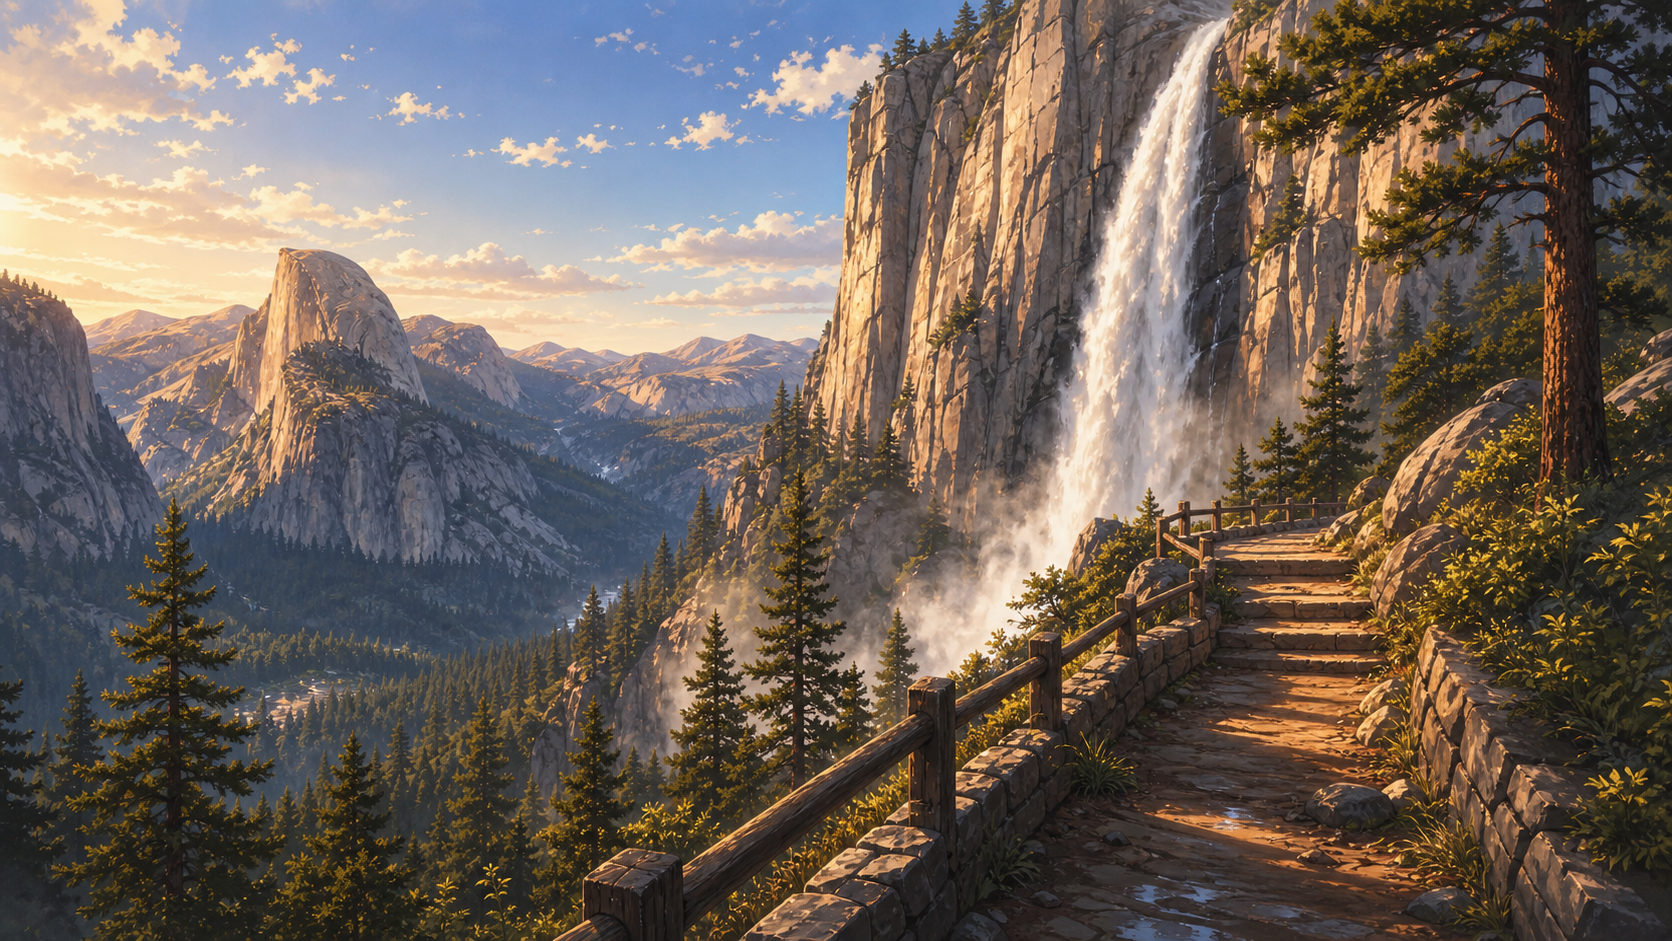
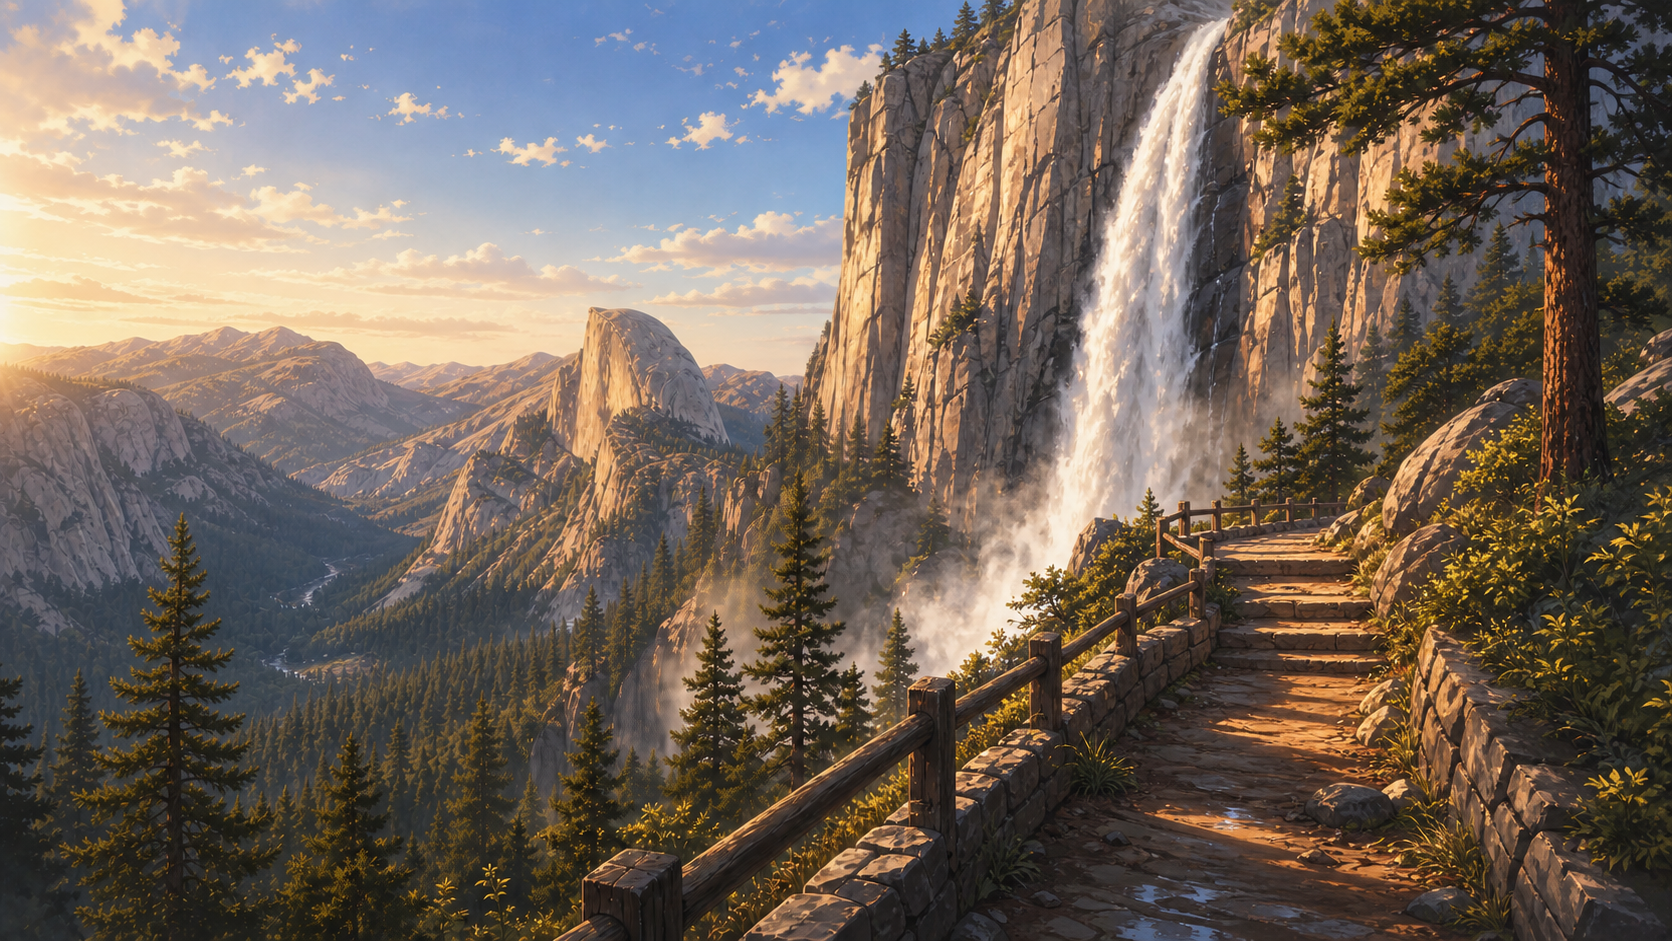
Added Skip To dev button

Changed region(s): [[0.0, 0.2465, 0.5287, 1.0], [0.4043, 0.8937, 0.4976, 1.0], [0.4976, 0.8629, 0.5287, 0.8937]]

diff --git a/game.js b/game.js
@@ -184,6 +184,37 @@ const backgroundClasses = {
   zion: "bg-zion"
 };
 
+const SKIP_TO_LOCATION_LABELS = {
+  checkIn: "Check-In",
+  lodge: "Lodge Lobby",
+  olympic: "Olympic",
+  yellowstone: "Yellowstone",
+  yellowstoneMisty: "Yellowstone Mist",
+  yosemite: "Yosemite",
+  yosemiteMeadowNight: "Yosemite Meadow",
+  zionClearingNight: "Zion Clearing",
+  jackCabinNight: "Jack's Cabin",
+  jackCabinDay: "Jack's Cabin Morning",
+  sequoia: "Sequoia",
+  zion: "Zion"
+};
+
+const SKIP_TO_VISIT_DESTINATIONS = {
+  olympic: "jack",
+  yellowstone: "caleb",
+  yosemite: "sierra",
+  sequoia: "dakota",
+  zion: "natai"
+};
+
+const SKIP_TO_SCENE_TARGETS = {
+  yellowstoneMisty: "full_love_caleb_start",
+  yosemiteMeadowNight: "full_love_sierra_meadow",
+  zionClearingNight: "full_love_natai_camp",
+  jackCabinNight: "full_love_jack_cabin",
+  jackCabinDay: "full_love_jack_morning_wake"
+};
+
 const musicThemes = {
   introspection: { src: "assets/audio/music/Almost Bliss.mp3", loopStart: 11.2, loopEnd: 303.4, volume: 0.34 },
   lodge: { src: "assets/audio/music/Clear Air.mp3", loopStart: 8.2, loopEnd: 176.8, volume: 0.52 },
@@ -1346,6 +1377,38 @@ const scenes = {
       { label: "Return to the lodge lobby early.", action: returnToLodgeEarly }
     ]
   },
+  dev_skip_to_picker: {
+    label: "Skip To",
+    background: () => state.choiceReactionBackground || { location: "lodge", time: state.timeOfDay },
+    lines: [
+      ["narrator", "Choose a setting and time of day. The route marker will put you there with the normal scene flow active."]
+    ],
+    choices: () => buildDevSkipToChoices()
+  },
+  dev_skip_to_checkin: {
+    label: () => `${TIME_LABELS[state.timeOfDay]} Check-In`,
+    background: () => ({ location: "checkIn", time: state.timeOfDay }),
+    lines: () => [
+      ["narrator", `${TIME_LABELS[state.timeOfDay]} settles over the check-in desk. The kiosk waits with cheerful, physics-violating patience.`],
+      ["player", state.timeOfDay === "daytime" ? "Okay. Normal check-in desk. Normal route cards. Extremely normal impossible choices." : "One more route, unless I cash out early."]
+    ],
+    choices: () => [
+      ...loveInterestChoices(),
+      { label: "Return to the lodge lobby early.", action: returnToLodgeEarly }
+    ]
+  },
+  dev_skip_to_lodge: {
+    label: () => `${TIME_LABELS[state.timeOfDay]} Lodge Lobby`,
+    background: () => ({ location: "lodge", time: state.timeOfDay }),
+    lines: () => [
+      ["narrator", `${TIME_LABELS[state.timeOfDay]} fills the lodge lobby. The route cards wait by the desk like they know exactly how strange this is.`],
+      ["player", "All right. Where are we going from here?"]
+    ],
+    choices: () => [
+      ...loveInterestChoices(),
+      { label: "Go to the check-in desk.", next: "dev_skip_to_checkin" }
+    ]
+  },
   checkin_travel_event: {
     label: () => state.flags.returningEarly ? `${TIME_LABELS[state.timeOfDay]} Lodge Lobby` : `${TIME_LABELS[state.timeOfDay]} Check-In`,
     background: () => ({ location: state.flags.returningEarly ? "lodge" : "checkIn", time: state.timeOfDay }),
@@ -2180,6 +2243,7 @@ const els = {
   devBtn: document.getElementById("devBtn"),
   backBtn: document.getElementById("backBtn"),
   skipBtn: document.getElementById("skipBtn"),
+  skipToBtn: document.getElementById("skipToBtn"),
   devPanel: document.getElementById("devPanel"),
   devScores: document.getElementById("devScores"),
   devChoicePreview: document.getElementById("devChoicePreview"),
@@ -2290,6 +2354,10 @@ function bindEvents() {
   els.skipBtn.addEventListener("click", event => {
     event.stopPropagation();
     skipCurrentInteraction();
+  });
+  els.skipToBtn.addEventListener("click", event => {
+    event.stopPropagation();
+    showDevSkipToPicker();
   });
   els.backBtn.addEventListener("click", event => {
     event.stopPropagation();
@@ -2645,6 +2713,98 @@ function skipCurrentInteraction() {
   }
 
   toast("Skip stopped before finding a new setting.");
+}
+
+function showDevSkipToPicker() {
+  if (els.dayTransition.classList.contains("active")) {
+    startDayFromTransition();
+    return;
+  }
+  if (els.gameScreen.classList.contains("establishing-pause")) return;
+  pushDevHistory();
+  state.choiceReactionBackground = resolveValue(scenes[state.sceneId]?.background) || { location: "lodge", time: state.timeOfDay };
+  playSfx("advance");
+  renderScene("dev_skip_to_picker");
+}
+
+function buildDevSkipToChoices() {
+  return Object.keys(backgroundCatalog)
+    .filter(location => location !== "black")
+    .flatMap(location => TIMES.map(time => ({
+      label: `${SKIP_TO_LOCATION_LABELS[location] || location} - ${TIME_LABELS[time]}`,
+      action: () => startDevSkipToSetting(location, time)
+    })));
+}
+
+function startDevSkipToSetting(location, time) {
+  resetDevSkipToTransientState(time);
+  const destination = SKIP_TO_VISIT_DESTINATIONS[location];
+  const sceneTarget = SKIP_TO_SCENE_TARGETS[location];
+
+  if (destination) {
+    state.pendingDestination = destination;
+    state.selectedRoute = destination;
+    state.visitTime = time;
+    state.visitStartMood = relationshipState(destination);
+    renderScene("main_visit_arrival");
+    toast(`Skipped to ${SKIP_TO_LOCATION_LABELS[location]} at ${TIME_LABELS[time].toLowerCase()}.`);
+    return;
+  }
+
+  if (location === "checkIn") {
+    renderScene("dev_skip_to_checkin");
+    toast(`Skipped to check-in at ${TIME_LABELS[time].toLowerCase()}.`);
+    return;
+  }
+
+  if (location === "lodge") {
+    renderScene("dev_skip_to_lodge");
+    toast(`Skipped to the lodge at ${TIME_LABELS[time].toLowerCase()}.`);
+    return;
+  }
+
+  if (sceneTarget) {
+    const character = fullLoveSceneCharacterFor(sceneTarget);
+    if (character) {
+      state.pendingDestination = character;
+      state.selectedRoute = character;
+      state.pendingFullLoveScene = character;
+      state.visitTime = time;
+      state.visitStartMood = "high";
+    }
+    renderScene(sceneTarget);
+    toast(`Skipped to ${SKIP_TO_LOCATION_LABELS[location] || location}.`);
+    return;
+  }
+
+  state.choiceReactionBackground = { location, time };
+  renderScene("dev_skip_to_picker");
+}
+
+function resetDevSkipToTransientState(time) {
+  state.timeOfDay = time;
+  state.pendingDestination = null;
+  state.pendingEncounter = null;
+  state.pendingFullLoveScene = null;
+  state.visitTime = null;
+  state.visitBeat = 0;
+  state.visitStartMood = null;
+  state.visitLastChoice = null;
+  state.visitLastReaction = null;
+  state.choiceReactionLines = null;
+  state.choiceReactionNext = null;
+  state.choiceReactionBackground = null;
+  state.choiceReactionLabel = null;
+}
+
+function fullLoveSceneCharacterFor(sceneId) {
+  const entry = Object.entries(fullLoveScenes).find(([, config]) => config.entryScene === sceneId);
+  if (entry) return entry[0];
+  if (sceneId.includes("_jack_")) return "jack";
+  if (sceneId.includes("_caleb_")) return "caleb";
+  if (sceneId.includes("_sierra_")) return "sierra";
+  if (sceneId.includes("_natai_")) return "natai";
+  return null;
 }
 
 function skipOneStep() {
@@ -3152,6 +3312,7 @@ function updateDevPanel() {
   els.backBtn.hidden = !state.devBackButton;
   els.backBtn.disabled = devHistory.length === 0;
   els.skipBtn.hidden = !state.devSkipButton;
+  els.skipToBtn.hidden = !state.devSkipButton;
   updateCopyControls();
   els.devScores.innerHTML = LOVE_INTEREST_KEYS.map(key => {
     const score = state.feelings[key] ?? 5;

diff --git a/index.html b/index.html
@@ -1346,6 +1346,7 @@
         <div class="control-row">
           <button class="text-btn" id="backBtn">Back</button>
           <button class="text-btn" id="skipBtn">Skip</button>
+          <button class="text-btn" id="skipToBtn">Skip To</button>
           <button class="text-btn" id="devBtn">Dev</button>
           <button class="icon-btn" id="saveBtn" title="Save" aria-label="Save">
             <svg viewBox="0 0 24 24" aria-hidden="true"><path d="M5 3h12l2 2v16H5z"/><path d="M8 3v6h8V3"/><path d="M8 17h8"/></svg>